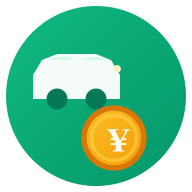
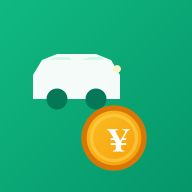
PWAのアイコンを修正

diff --git a/generate-icons.js b/generate-icons.js
@@ -2,10 +2,13 @@ import sharp from 'sharp';
 import fs from 'fs';
 import path from 'path';
 
-const sizes = [
-  { size: 192, name: 'icon-192x192.png' },
-  { size: 512, name: 'icon-512x512.png' },
-  { size: 180, name: 'apple-touch-icon.png' }
+const pwaIcons = [
+  { size: 192, name: 'icon-192x192.png', svg: './carpool-pwa-icon.svg' },
+  { size: 512, name: 'icon-512x512.png', svg: './carpool-pwa-icon.svg' }
+];
+
+const appleIcon = [
+  { size: 180, name: 'apple-touch-icon.png', svg: './carpool-favicon.svg' }
 ];
 
 const publicDir = './public';
@@ -13,16 +16,27 @@ if (!fs.existsSync(publicDir)) {
   fs.mkdirSync(publicDir);
 }
 
-const svgBuffer = fs.readFileSync('./carpool-favicon.svg');
-
 async function generateIcons() {
-  for (const { size, name } of sizes) {
+  // PWA用アイコンを生成（四角い背景）
+  for (const { size, name, svg } of pwaIcons) {
+    const svgBuffer = fs.readFileSync(svg);
     await sharp(svgBuffer)
       .resize(size, size)
       .png()
       .toFile(path.join(publicDir, name));
-    console.log(`Generated ${name}`);
+    console.log(`Generated ${name} (square background)`);
   }
+
+  // Apple用アイコンを生成（丸い背景）
+  for (const { size, name, svg } of appleIcon) {
+    const svgBuffer = fs.readFileSync(svg);
+    await sharp(svgBuffer)
+      .resize(size, size)
+      .png()
+      .toFile(path.join(publicDir, name));
+    console.log(`Generated ${name} (circular background)`);
+  }
+
   console.log('All icons generated successfully!');
 }
 
